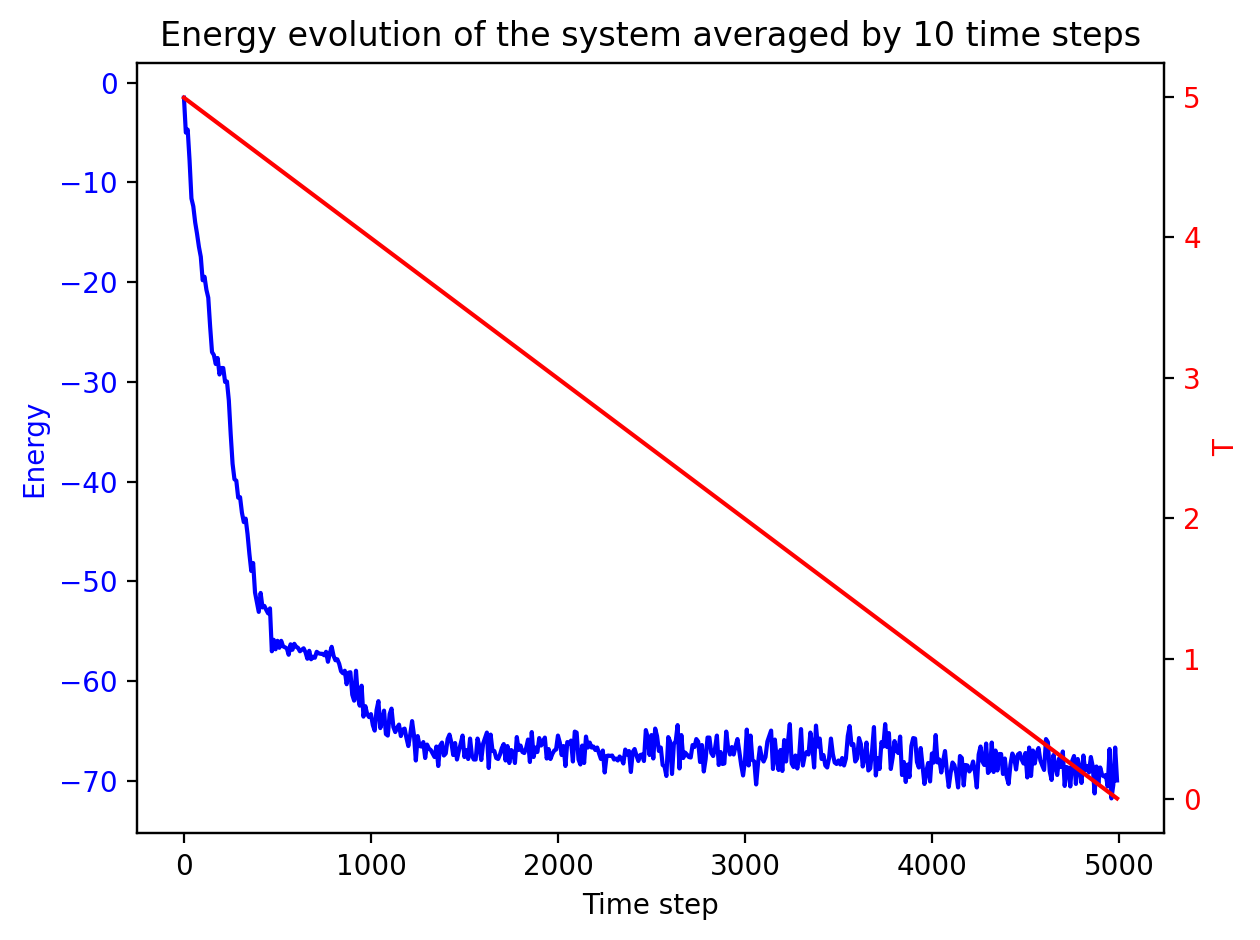
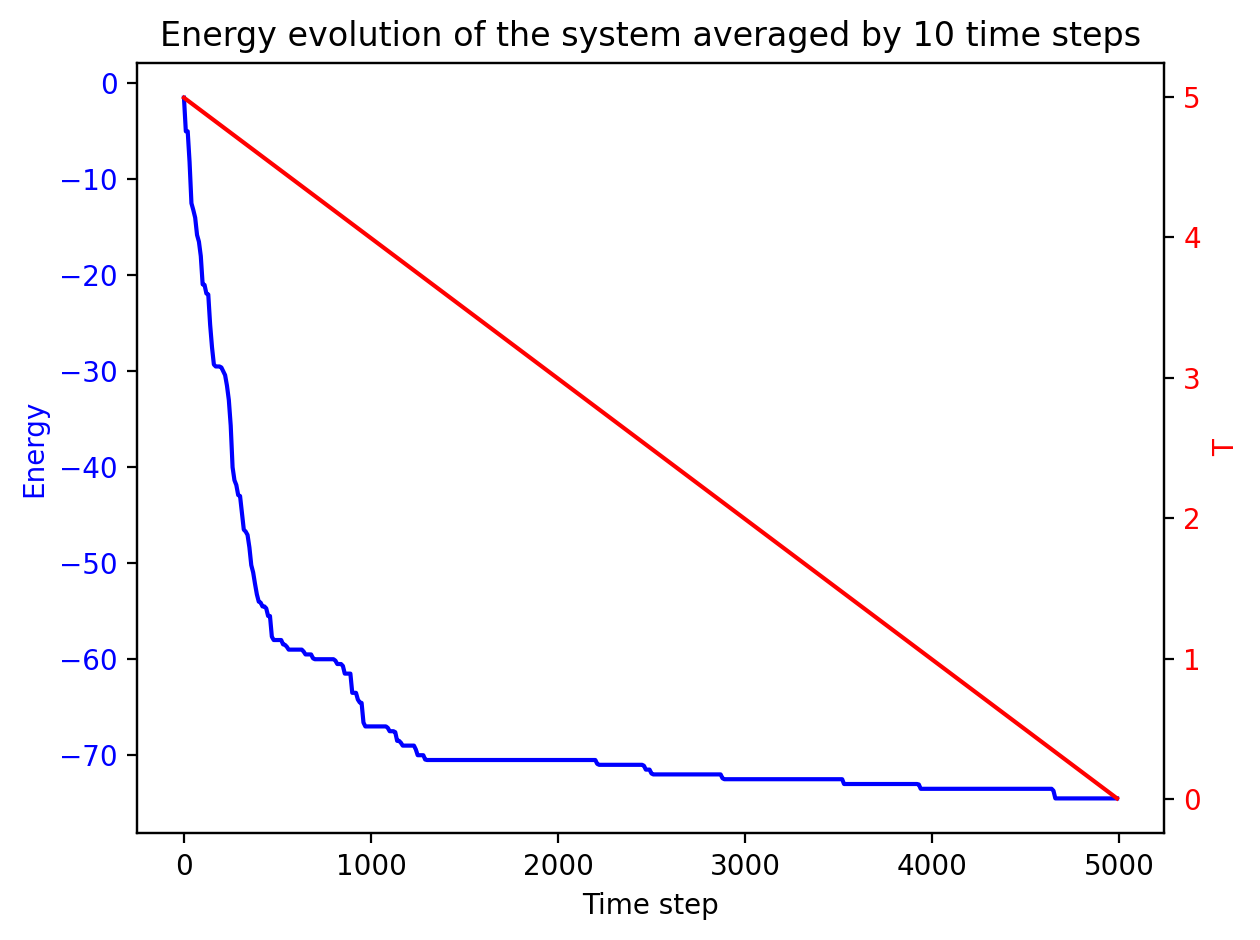
Add explicit Boltzmann constant to Metropolis algorithm

diff --git a/src/protein_class.py b/src/protein_class.py
@@ -8,7 +8,6 @@ from typing import List
 import math
 import utils
 import copy
-from scipy.constants import Boltzmann
 
 class Protein:
     """
@@ -123,7 +122,7 @@ class Protein:
     def _accept_higher_energy(self, current: float, new: float, temperature: float) -> bool:
         """Return True if the new structure is accepted by the Metropolis criterion."""
         delta_e = new - current
-        prob = math.exp(-delta_e / (Boltzmann * temperature))
+        prob = math.exp(-delta_e / (1 * temperature))
         return prob >= random.uniform(0, 1)
 
     def energy(self, e: float = 1.0) -> float:
